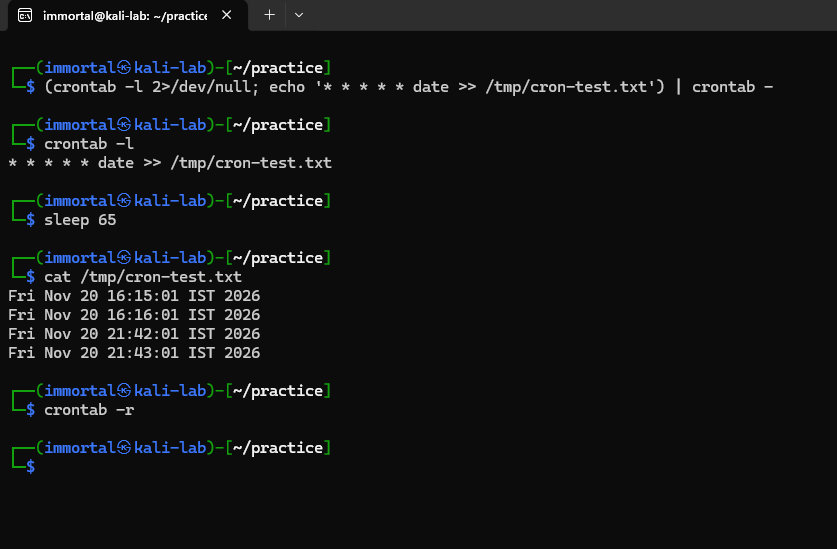
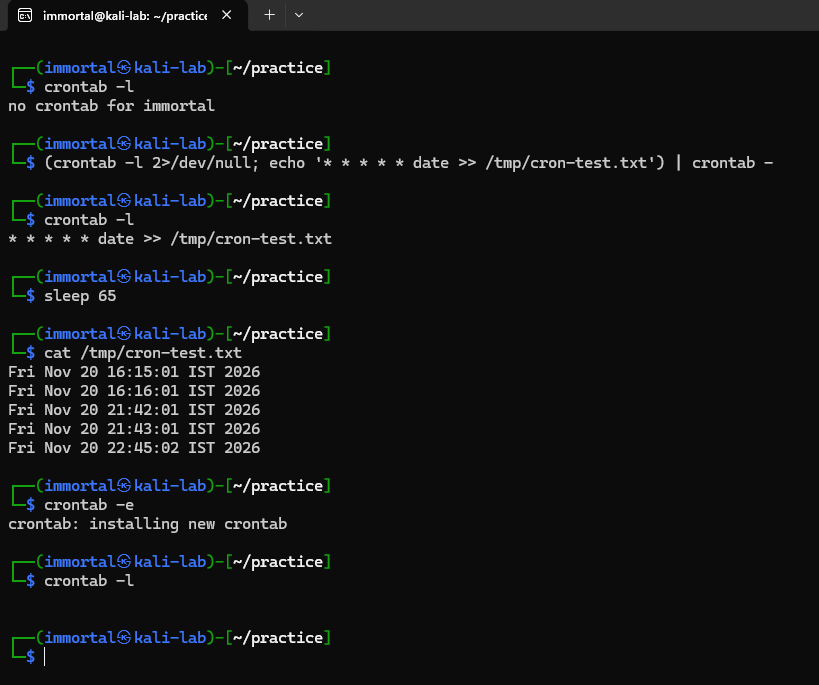
Improved Minor Mistakes

diff --git a/01-foundations/01-linux/02-searching-and-text.md b/01-foundations/01-linux/02-searching-and-text.md
@@ -19,7 +19,7 @@ echo "password=not-a-real-password" > config.txt
 find / -xdev -name "passwd" 2>/dev/null      # find a file by name
 find /home -type f -name "*.txt"             # find all .txt files
 find / -xdev -type f -size +10M 2>/dev/null  # files larger than 10 MB
-find / -xdev -perm -4000 2>/dev/null         # find SUID files
+find / -xdev -type f -perm -4000 2>/dev/null         # find SUID files
 find /etc -user root -type f 2>/dev/null | head -n 5   # files owned by root (first 5 only)
 
 locate passwd                                # fast search (run: sudo updatedb first)
@@ -36,7 +36,7 @@ grep -v "info" log.txt                       # show lines that do NOT match
 - `locate` may not be installed. On Kali I install it with `sudo apt install plocate`, then run `sudo updatedb`.
 - Linux has three standard data streams: 0 is standard input, 1 is standard output (normal results), and 2 is standard error (error messages).
 - `2>/dev/null` hides permission errors so the output stays readable.
-- `find / -perm -4000 2>/dev/null` finds SUID files, which are important for privilege escalation. See [Users and permissions](03-users-and-permissions.md) for what the SUID bit does.
+- `find / -xdev -type f -perm -4000 2>/dev/null` finds SUID files, which are important for privilege escalation. See [Users and permissions](03-users-and-permissions.md) for what the SUID bit does.
 
 ### Why `2>/dev/null` matters
 
@@ -120,7 +120,7 @@ cut -d ":" -f 1 /etc/passwd | sort | head -n 5
 - `uniq names.txt` printed all six lines unchanged, because `uniq` only removes duplicates that are **next to each other**. In my file, no identical lines are neighbours.
 - `sort names.txt | uniq` first puts identical lines together, so the result is `alice`, `bob`, `carol`. This is the same idea I used in OverTheWire Bandit.
 - `sort names.txt | uniq -c | sort -nr` counts each name and ranks them from most to least frequent: `alice` appears 3 times, `bob` 2 times and `carol` once.
-- The last pipeline cuts out the usernames, sorts them, and keeps the first 5 (`_apt`, `backup`, `bin`, `daemon`, `_dhcpcd`). Each command only does one small job, and the pipe joins them. `sort` ignored the leading underscore here, so `_apt` was sorted as if it were `apt`.
+- The last pipeline extracts usernames, sorts them, and keeps the first 5. The ordering depends on the active locale. In my output, `_apt` appeared before `backup`.
 
 ### Redirection
 

diff --git a/01-foundations/01-linux/05-processes-services-cron.md b/01-foundations/01-linux/05-processes-services-cron.md
@@ -144,14 +144,14 @@ Format: `minute hour day-of-month month day-of-week command`
 0 9 * * 1 /home/user/weekly.sh             # Mondays at 9:00
 ```
 
-I added a job that writes the date every minute, waited, and read the file. `crontab -r` removes **all** my cron jobs, so I only use it when my crontab holds nothing else:
+I added a job that writes the date every minute, waited, and read the file. After testing, I removed only the test job using `crontab -e` so that any existing cron jobs remained untouched:
 
 ```bash
 (crontab -l 2>/dev/null; echo '* * * * * date >> /tmp/cron-test.txt') | crontab -
 crontab -l
 sleep 65
 cat /tmp/cron-test.txt
-crontab -r
+crontab -e
 ```
 
 ![Adding a cron job and reading its output](images/05-linux-cron-job.png)
@@ -159,7 +159,7 @@ crontab -r
 - The first command appended a new line to my existing crontab (if any) and loaded it. This does the same as `crontab -e`, without opening an editor.
 - `crontab -l` listed the job.
 - After about a minute, `/tmp/cron-test.txt` contained a date line written by cron, which proves the job ran on its own.
-- `crontab -r` removed the job when I finished.
+- `crontab -e` opened the crontab editor, where I removed only the test job. I then used `crontab -l` to verify the remaining jobs.
 
 ## Process IDs and signals in depth
 
@@ -186,7 +186,7 @@ kill -1 1234   # SIGHUP: hang up; many services reload their config
 
 | Signal | Number | Meaning |
 |---|---|---|
-| SIGHUP | 1 | Terminal closed or reload configuration |
+| SIGHUP | 1 | traditionally means hangup; some services interpret it as a request to reload configuration |
 | SIGINT | 2 | Interrupt (Ctrl + C) |
 | SIGTERM | 15 | Polite request to terminate |
 | SIGKILL | 9 | Force kill |

diff --git a/01-foundations/01-linux/08-system-and-disks.md b/01-foundations/01-linux/08-system-and-disks.md
@@ -122,7 +122,7 @@ journalctl -b          # logs from the current boot
 journalctl -b -1       # logs from the previous boot, if available
 journalctl -b -p err   # error-priority messages from the current boot
 systemd-analyze        # summary of startup time
-systemd-analyze blame  # services ordered by time spent during startup
+systemd-analyze blame  # show service initialization times
 ```
 
 `journalctl -b` is especially useful when investigating startup or service problems. Some commands may show limited information depending on permissions and the system's log retention settings.
@@ -289,7 +289,7 @@ df -T                                      # show filesystem types for mounted f
 sudo file -s "$(findmnt -no SOURCE /)"     # inspect the device that holds the root filesystem
 ```
 
-`findmnt -no SOURCE /` prints the device that holds `/`, so I don't have to guess a name like `/dev/sda1`.
+`findmnt -no SOURCE /` may return a virtual or overlay source in WSL, so file -s isn't guaranteed to identify the underlying physical storage
 
 ### Files, directories and inodes
 

diff --git a/01-foundations/01-linux/09-practice-exercises.md b/01-foundations/01-linux/09-practice-exercises.md
@@ -4,7 +4,7 @@
 
 Solutions: [Practice solutions](10-practice-solutions.md)
 
-Try completing each question myself without looking at the commands in my notes. Each exercise matches a topic in the other files. Exercises 7 (SSH between two machines), 10 (cron), 13 (logs), 22 (boot process) and 23 (disks) behave differently in WSL, so check the notes in those files first.
+Try completing each question on my own, without looking at the commands in my notes. Each exercise matches a topic in the other files. Exercises 7 (SSH between two machines), 10 (cron), 13 (logs), 22 (boot process) and 23 (disks) behave differently in WSL, so check the notes in those files first.
 
 1. **Getting help and flags:** Use `man` and `--help` to find three useful flags for `ls`, `cp` and `grep`. Explain what each flag does.
 2. **Navigating and managing files:** Inside `~/practice`, create `projects/web`, `projects/network` and `notes`. Create three text files, copy one, rename one and delete one.

diff --git a/01-foundations/01-linux/03-users-and-permissions.md b/01-foundations/01-linux/03-users-and-permissions.md
@@ -203,7 +203,7 @@ sudo deluser --remove-home testuser
 
 - **SUID** (`s` in the owner position, like `-rwsr-xr-x`): the program runs with the owner's rights. Example: `/usr/bin/passwd`.
 - **SGID** (`s` in the group position): runs with the group's rights. On a directory, new files inherit the directory's group.
-- **Sticky bit** (`t`, like `drwxrwxrwt` on `/tmp`): users can only delete their own files in the directory.
+- **Sticky bit** (`t`, like `drwxrwxrwt` on `/tmp`): users generally cannot delete or rename files belonging to other users. Exceptions include the directory owner and root.
 
 | Special bit | Symbolic | Numeric (first digit) |
 |---|---|---|

diff --git a/01-foundations/01-linux/04-ssh-and-networking.md b/01-foundations/01-linux/04-ssh-and-networking.md
@@ -161,7 +161,7 @@ kill %1
 - `ss -tuln` showed a `LISTEN` line for port 8000.
 - `wget` fetched `names.txt` over HTTP, and the server printed a log line for the request (`GET /names.txt` with status `200`).
 - `cat` showed that the downloaded file matches the original.
-- `kill %1` stopped the server (job number 1).
+- `kill %1` stopped the server (job number 1), The job number may differ.
 
 ## Cleaning up
 
